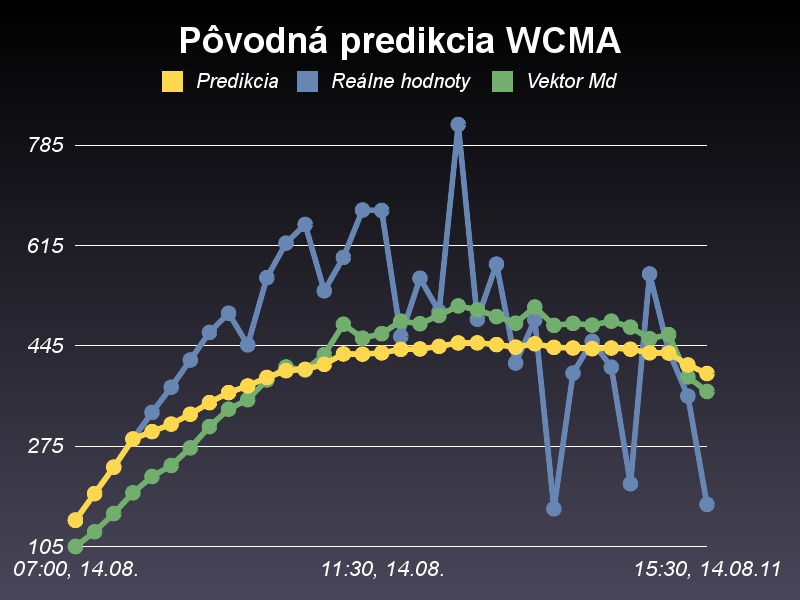
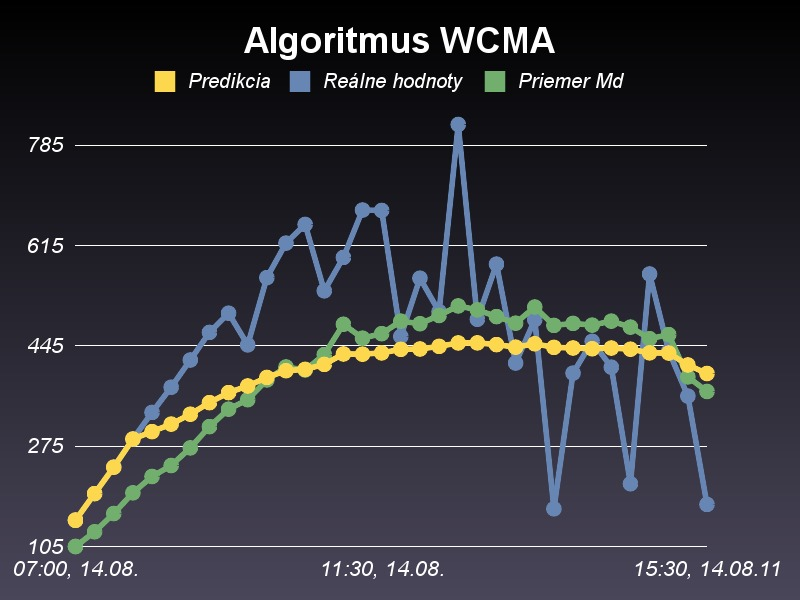
predikcia

Changed region(s): [[0.1875, 0.03, 0.7812, 0.15]]

diff --git a/app/assets/stylesheets/predikcia.css b/app/assets/stylesheets/predikcia.css
@@ -160,6 +160,7 @@ table.message
 
 h1 {
 	text-align: center;
+	font-size: 18px;
 }
 
 h3

diff --git a/app/controllers/home_controller.rb b/app/controllers/home_controller.rb
@@ -142,11 +142,11 @@ before_filter :authenticate_admin!
 	end # if pocet>=4
 
 	@g = Gruff::Line.new
-	@g.title = "Upravená predikcia WCMA" 
+	@g.title = "Algoritmus WCMA-SF" 
 
 	@g.data("Predikcia", @predikcia)
 	@g.data("Reálne hodnoty", @realny_vykon)
-	@g.data("Vektor Md", @md_vektor)
+	@g.data("Priemer Md", @md_vektor)
 
 
 	@g.labels = {0 => @e_vektor[@posledny-@pocet-@okno_k].cas.strftime("%H:%M, %d.%m.")||"0", 
@@ -274,11 +274,11 @@ before_filter :authenticate_admin!
 	end # if pocet>=4
 
 	@g = Gruff::Line.new
-	@g.title = "Pôvodná predikcia WCMA" 
+	@g.title = "Algoritmus WCMA" 
 
 	@g.data("Predikcia", @predikciax)
 	@g.data("Reálne hodnoty", @realny_vykonx)
-	@g.data("Vektor Md", @md_vektorx)
+	@g.data("Priemer Md", @md_vektorx)
 
 
 	@g.labels = {0 => @e_vektorx[@poslednyx-@pocet-@okno_k].cas.strftime("%H:%M, %d.%m.")||"0", 
